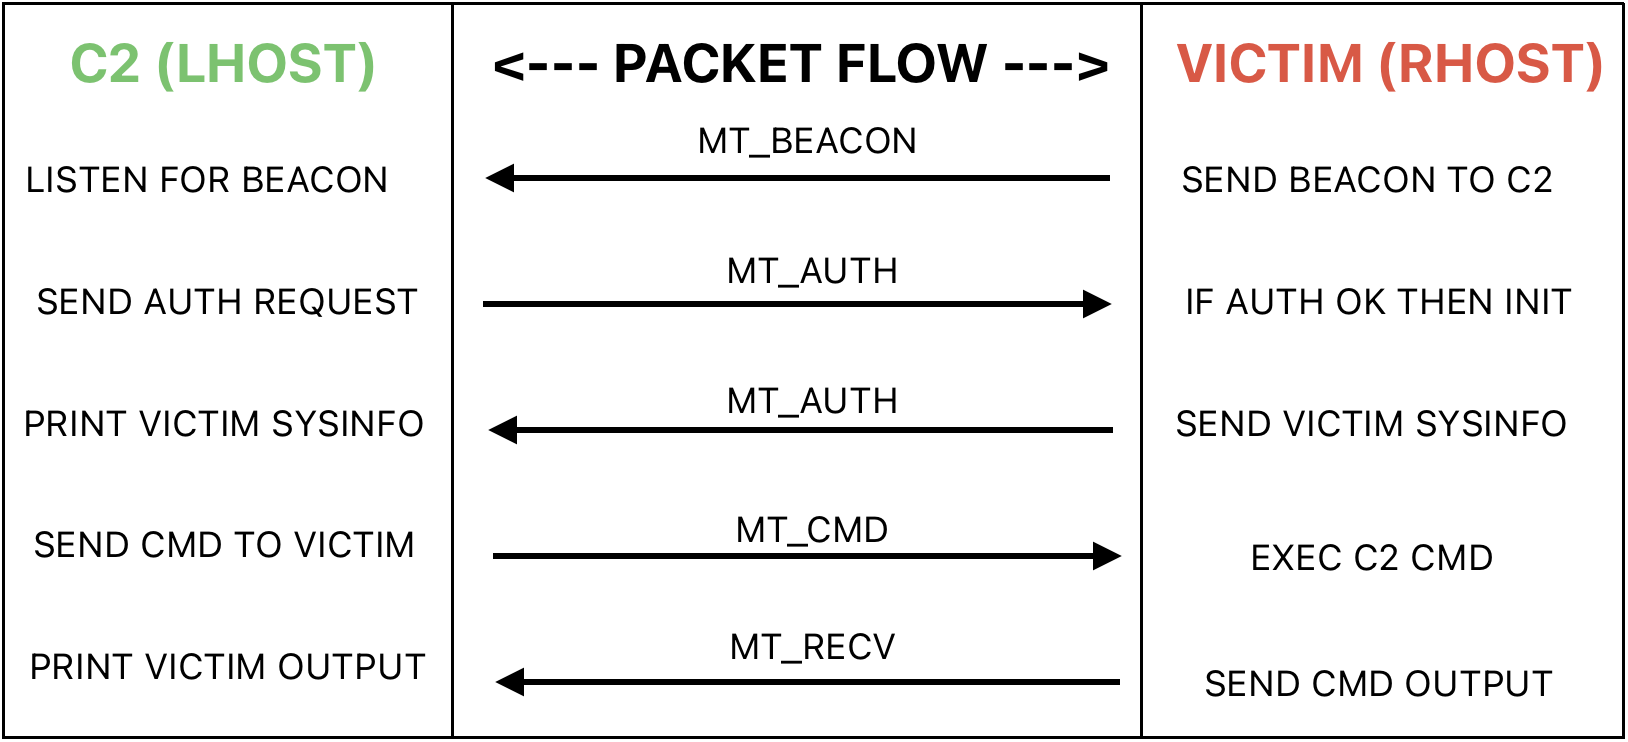
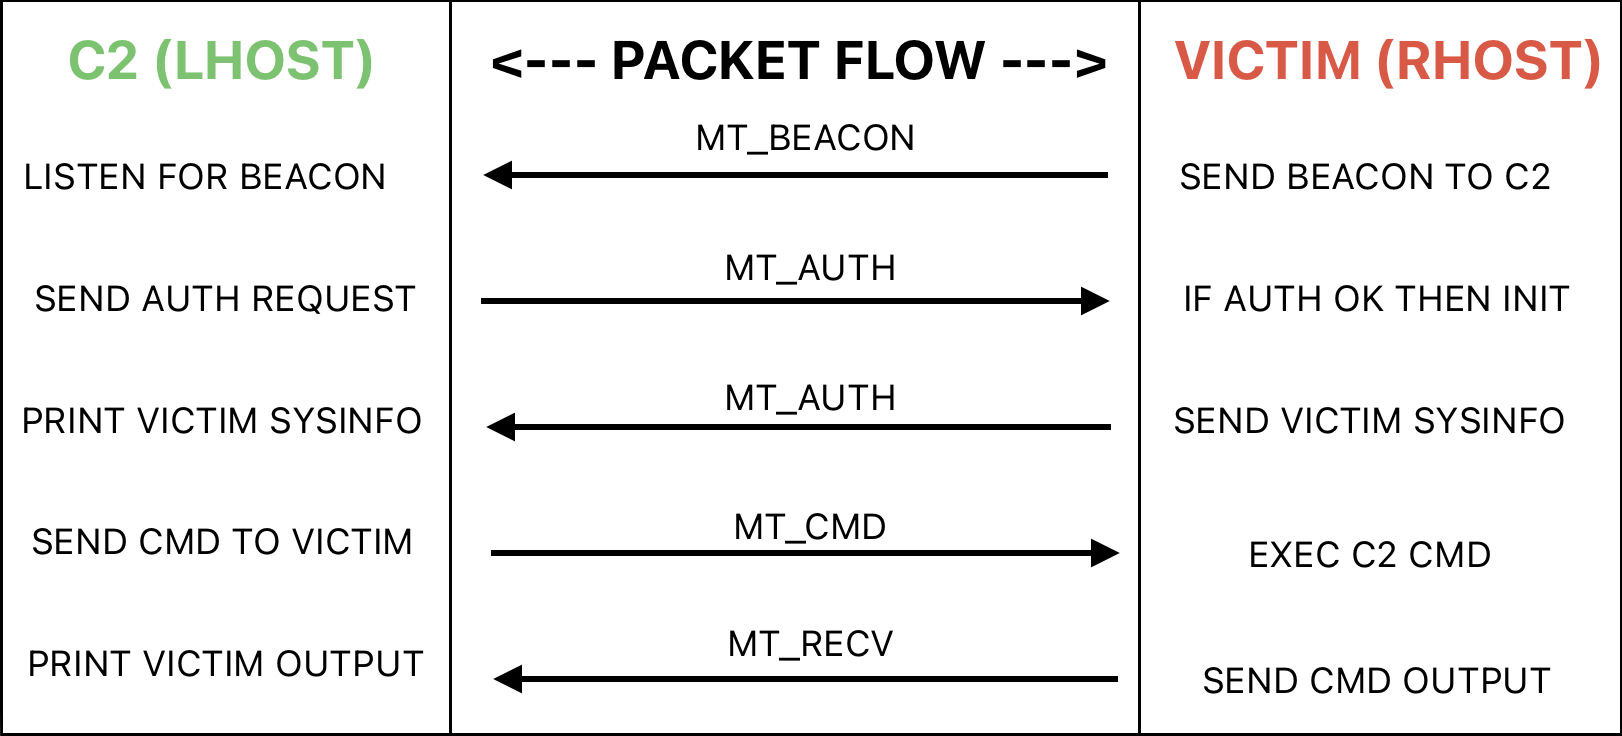
fleshed out readme

diff --git a/README.md b/README.md
@@ -1,11 +1,39 @@
-placeholder for now
+# RATTENPRINZ 
+Rattenprinz is a paired revshell with C2/listener written in python. It is lightweight in the sense that it only requires basic python packages, i.e. if you have python3, you can use it out-of-the-box.
 
-writing this down so i dont forget - 
-chose NOT to go with ECDHKE because it would require cryptography on both ends, and revshell.py is supposed to be lightweight and more importantly should only use default python packages so that it works on all systems where python is installed.
-WRT DHKE it was possible but it took way too long to generate keys (sometimes quite quickly but often 2-3+ seconds) which annoyed me and went against the 'lightweight' and 'fast' design philosophy
+**To start exploring, run:** `python3 c2.py --help`
 
-placeholder for some pics below
+The shell is relatively stable, with auto-reconnect if the user CTRL+C's out - this somewhat mitigates common issues with shells hanging or randomly disconnecting. Auto-reconnect is enabled by the revshell.py beaconing out every few seconds (supported by a jitter so that the beaconing is somewhat random). 
 
+File upload (C2/listener -> revshell) and file download (revshell -> C2/listener) is supported through the *'upload'* and *'download'* commands. Local shell history (i.e. what commands the user issued the shell) can be accessed by typing **'lhistory'**. 
+
+*Communication* between the LHOST (C2/listener) and the RHOST (revshell) uses a custom binary protocol - a simple [TLV](https://en.wikipedia.org/wiki/Type–length–value) (Type-Length-Value) encoding scheme, with a header of 5 bytes: 1 byte for the **MESSAGE TYPE** and 4 bytes for the **PAYLOAD LENGTH**, which is followed by the full **PAYLOAD**. 
 HEADER - ![HEADER](assets/RATTENPRINZ_HEADER.png)
 
+*Packet flow* begins with the revshell connecting back to a listening socket on the C2/listener and beaconing, followed by rudimentary authentication enabled by message types which then enables commands to be sent from the C2/listener through to the revshell to be executed on the RHOST, with output sent back to the C2/listener and displayed to the LHOST. 
 PACKET FLOW - ![PFLOW](assets/RATTENPRINZ_PACKET_FLOW.png)
+
+**MESSAGE TYPES**:
+```MT_BEACON 	= 0
+MT_AUTH 	= 1
+MT_CMD		= 2
+MT_RECV		= 3
+MT_UP		= 4
+MT_DWN		= 5
+MT_DATA		= 6
+MT_ERR		= 7```
+
+**NB.** The following *GLOBAL VARIABLES* should be edited if one wishes to use the scripts:
+C2_IP (revshell.py)
+C2_PORT (revshell.py)
+LHOST (c2.py)
+
+One may also edit the XOR_KEY, though since XOR is more obfuscation than 'encryption', there isn't much point.
+
+## Ethical Use Policy
+
+This project is provided **for educational and research purposes only**.
+
+Unauthorized use against systems you do not own or have explicit permission to access is illegal and strictly prohibited.
+
+Users are solely responsible for ensuring compliance with all applicable laws and regulations. The author assumes no liability for any misuse.